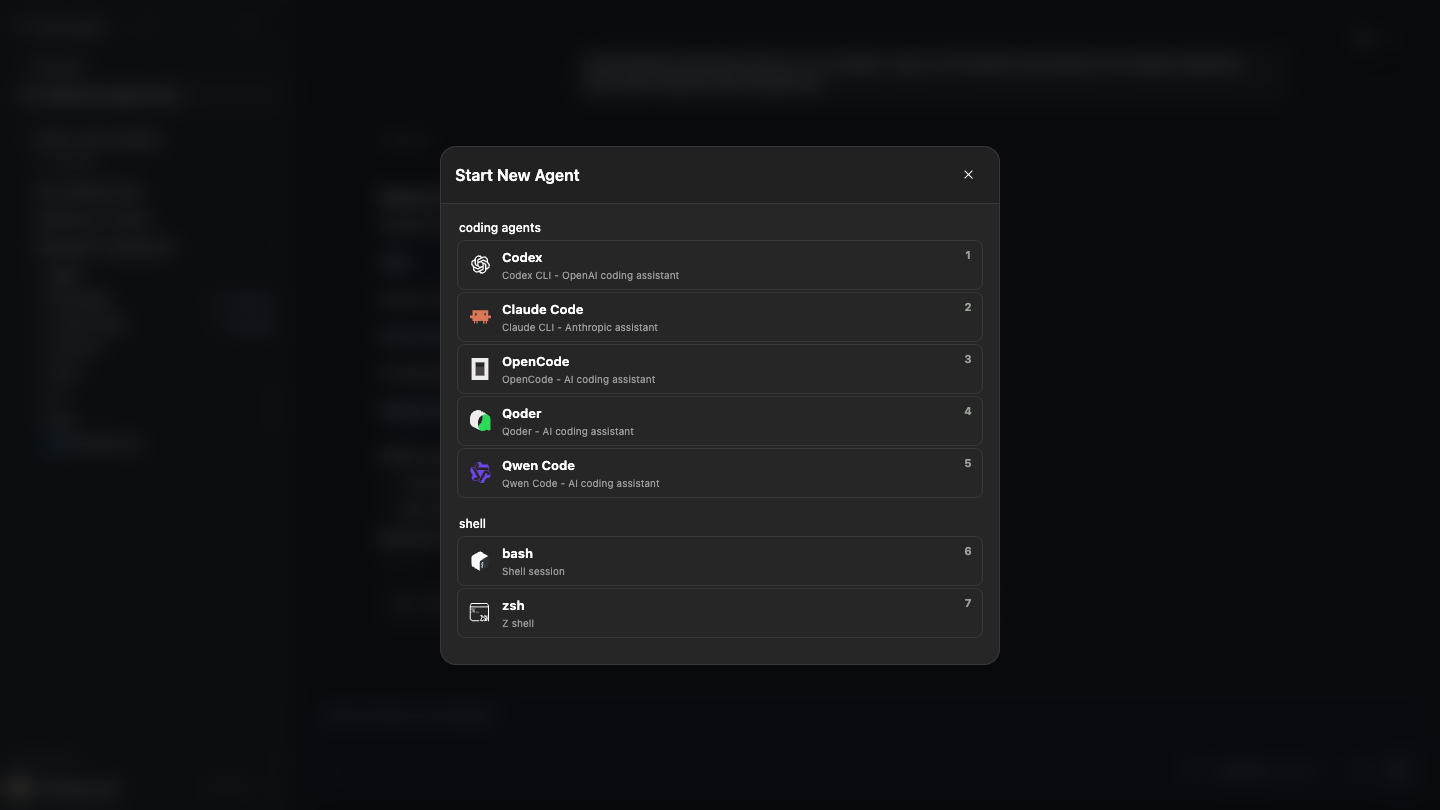
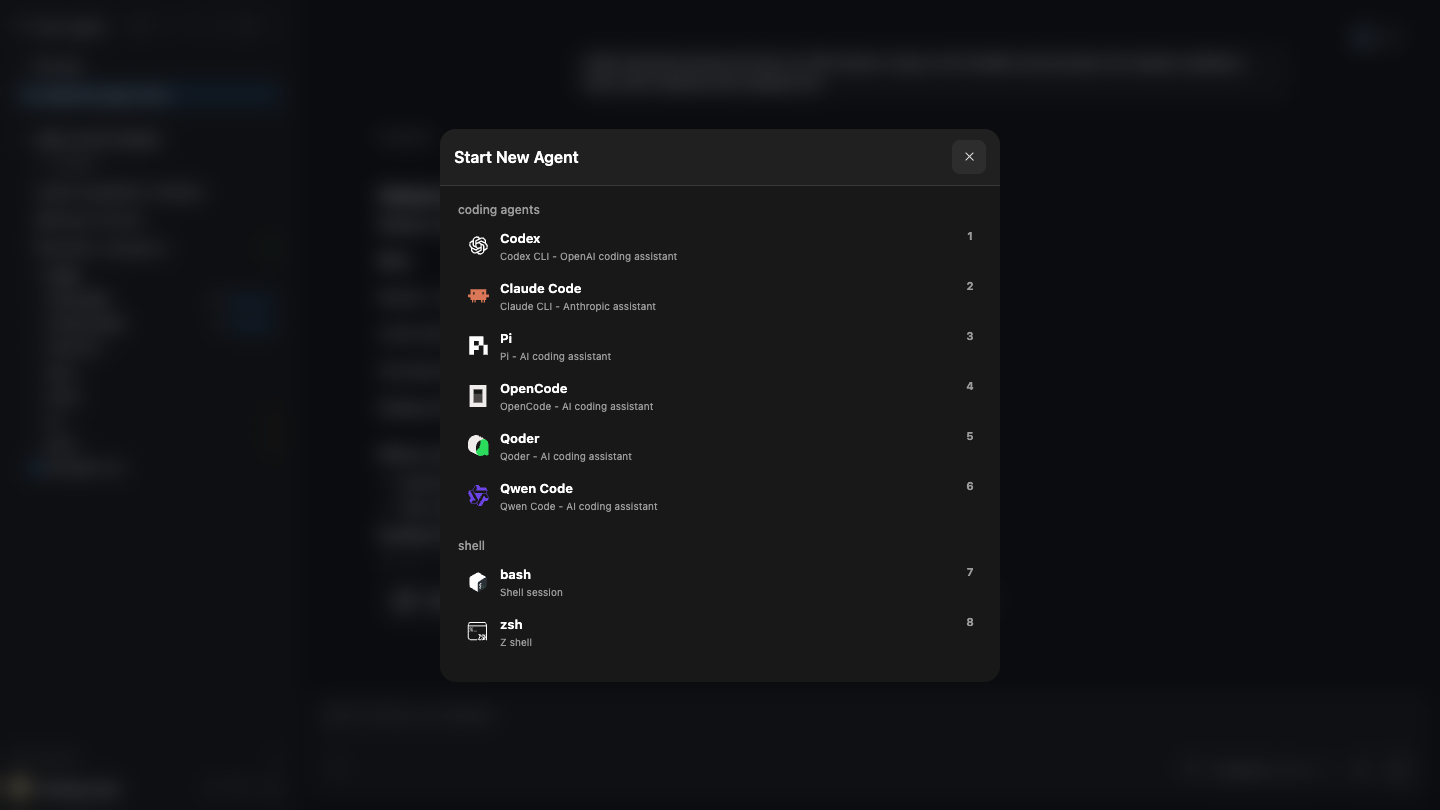
docs: clarify remote agent access and add Pi

diff --git a/docs-site/.vitepress/theme/ProviderIcons.vue b/docs-site/.vitepress/theme/ProviderIcons.vue
@@ -7,6 +7,7 @@ import zshIcon from '../../../src/assets/agent-icons/color/zsh.svg'
 const providers = [
   { name: 'Codex', icon: 'codex' },
   { name: 'Claude Code', icon: 'claude-code' },
+  { name: 'Pi', icon: 'pi' },
   { name: 'OpenCode', icon: 'opencode' },
   { name: 'Qoder', icon: 'qoder' },
   { name: 'Qwen Code', icon: 'qwen' },
@@ -16,7 +17,7 @@ const providers = [
 </script>
 
 <template>
-  <span class="docs-card-provider-icons" aria-label="支持 Codex、Claude Code、OpenCode、Qoder、Qwen Code、Bash 和 Zsh">
+  <span class="docs-card-provider-icons" aria-label="支持 Codex、Claude Code、Pi、OpenCode、Qoder、Qwen Code、Bash 和 Zsh">
     <template v-for="provider in providers" :key="provider.icon">
       <img
         :class="`provider-icon provider-icon-${provider.icon} provider-icon-warm`"

diff --git a/docs-site/.vitepress/theme/custom.css b/docs-site/.vitepress/theme/custom.css
@@ -209,6 +209,17 @@
   letter-spacing: -0.01em;
 }
 
+.VPHero .tagline .farming-hero-description {
+  display: block;
+  margin-top: 14px;
+  color: var(--vp-c-text-1);
+  font-family: var(--farming-font-sans);
+  font-size: 16px;
+  font-weight: 450;
+  line-height: 1.65;
+  letter-spacing: 0;
+}
+
 .VPHero.has-image .text {
   margin-top: 28px !important;
 }

diff --git a/scripts/capture-product-screenshots.ts b/scripts/capture-product-screenshots.ts
@@ -1573,6 +1573,7 @@ async function main() {
 
     await openNewAgentDialog(page);
     await screenshot(page, '02-start-agent-picker.png');
+    if (requestedScreenshotsComplete()) return;
     await closeNewAgentDialog(page);
 
     await openAgent(page, codexAgentId);

diff --git a/docs-site/en/get-started/quickstart.md b/docs-site/en/get-started/quickstart.md
@@ -13,12 +13,12 @@ You need:
 
 - macOS or Linux;
 - Node.js 22.13 LTS (22.x) or Node.js 24+;
-- at least one coding Agent that already starts successfully, such as Codex, Claude Code, or OpenCode.
+- at least one coding Agent that already starts successfully, such as Codex, Claude Code, Pi, or OpenCode.
 
-Farming does not replace provider authentication. Sign in to the corresponding CLI on the development machine and confirm that it can start independently.
+Farming does not replace provider authentication. Sign in to the corresponding CLI on the Mac or Linux host running Farming and confirm that it can start independently.
 
 ::: tip Checkpoint
-On the same development machine, the target coding Agent CLI starts without waiting for sign-in or initial setup.
+On the same Mac or Linux host running Farming, the target coding Agent CLI starts without waiting for sign-in or initial setup.
 :::
 
 ## Install and open Farming

diff --git a/docs-site/en/index.md b/docs-site/en/index.md
@@ -4,7 +4,7 @@ layout: home
 hero:
   name: Farming
   text: A browser workspace for AI coding agents
-  tagline: Engineering Is Becoming Farming
+  tagline: 'Engineering Becomes Agent Farming<span class="farming-hero-description">Access Coding Agents running on your Mac or Linux host in real time from a browser, then open the same remote workspace on your phone or share it with others.</span>'
   image:
     src: /farming-hero.png
     alt: Farming Code
@@ -30,7 +30,7 @@ hero:
   </a>
   <a class="docs-card" href="./get-started/quickstart">
     <strong>Remote web access</strong>
-    <span>Run Farming on your development machine and connect from a desktop or phone browser.</span>
+    <span>Run Farming on a Mac or Linux host and connect from a desktop or phone browser.</span>
     <ProviderIcons />
   </a>
   <a class="docs-card" href="./code/files">

diff --git a/docs-site/index.md b/docs-site/index.md
@@ -4,7 +4,7 @@ layout: home
 hero:
   name: Farming
   text: 浏览器中的 AI Coding Agent 工作区
-  tagline: Engineering Is Becoming Farming
+  tagline: 'Engineering Becomes Agent Farming<span class="farming-hero-description">通过浏览器实时访问运行在你的 Mac 或 Linux 主机上的 Coding Agent，并从手机接入或与他人分享同一远端工作区。</span>'
   image:
     src: /farming-hero.png
     alt: Farming Code
@@ -30,7 +30,7 @@ hero:
   </a>
   <a class="docs-card" href="./cn/get-started/quickstart">
     <strong>Web 远程托管</strong>
-    <span>运行在开发机上，通过桌面或手机浏览器访问。</span>
+    <span>运行在 Mac 或 Linux 主机上，通过桌面或手机浏览器访问。</span>
     <ProviderIcons />
   </a>
   <a class="docs-card" href="./cn/code/files">

diff --git a/docs-site/cn/index.md b/docs-site/cn/index.md
@@ -4,7 +4,7 @@ layout: home
 hero:
   name: Farming
   text: 浏览器中的 AI Coding Agent 工作区
-  tagline: Engineering Is Becoming Farming
+  tagline: 'Engineering Becomes Agent Farming<span class="farming-hero-description">通过浏览器实时访问运行在你的 Mac 或 Linux 主机上的 Coding Agent，并从手机接入或与他人分享同一远端工作区。</span>'
   image:
     src: /farming-hero.png
     alt: Farming Code
@@ -30,7 +30,7 @@ hero:
   </a>
   <a class="docs-card" href="./get-started/quickstart">
     <strong>Web 远程托管</strong>
-    <span>运行在开发机上，通过桌面或手机浏览器访问。</span>
+    <span>运行在 Mac 或 Linux 主机上，通过桌面或手机浏览器访问。</span>
     <ProviderIcons />
   </a>
   <a class="docs-card" href="./code/files">
